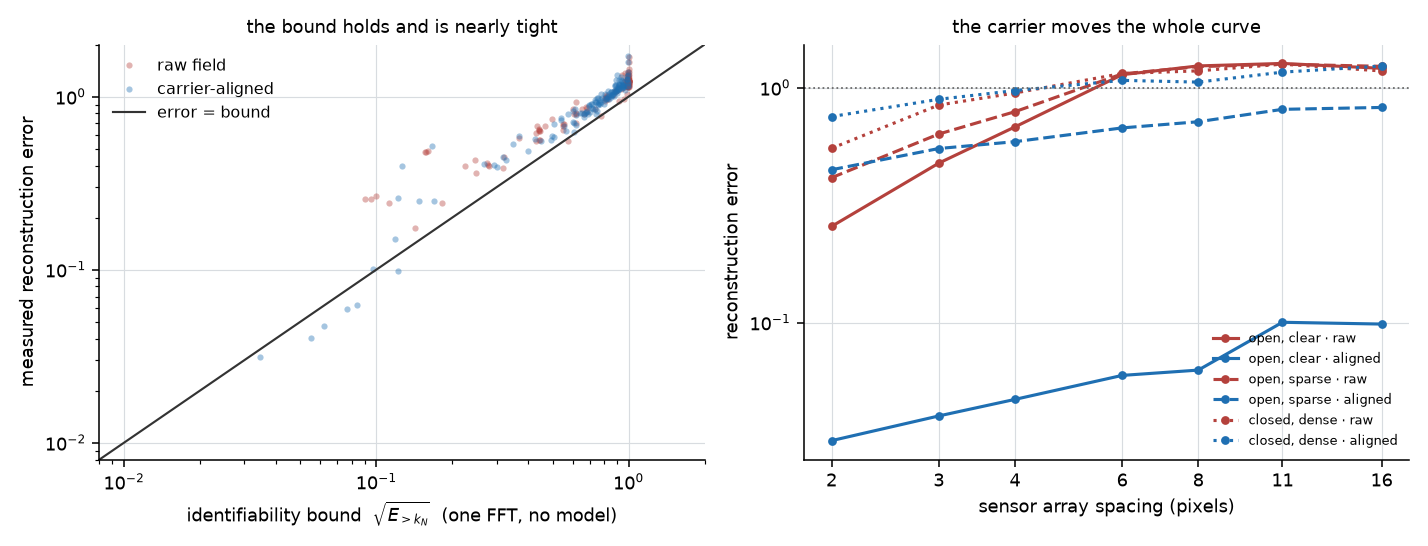
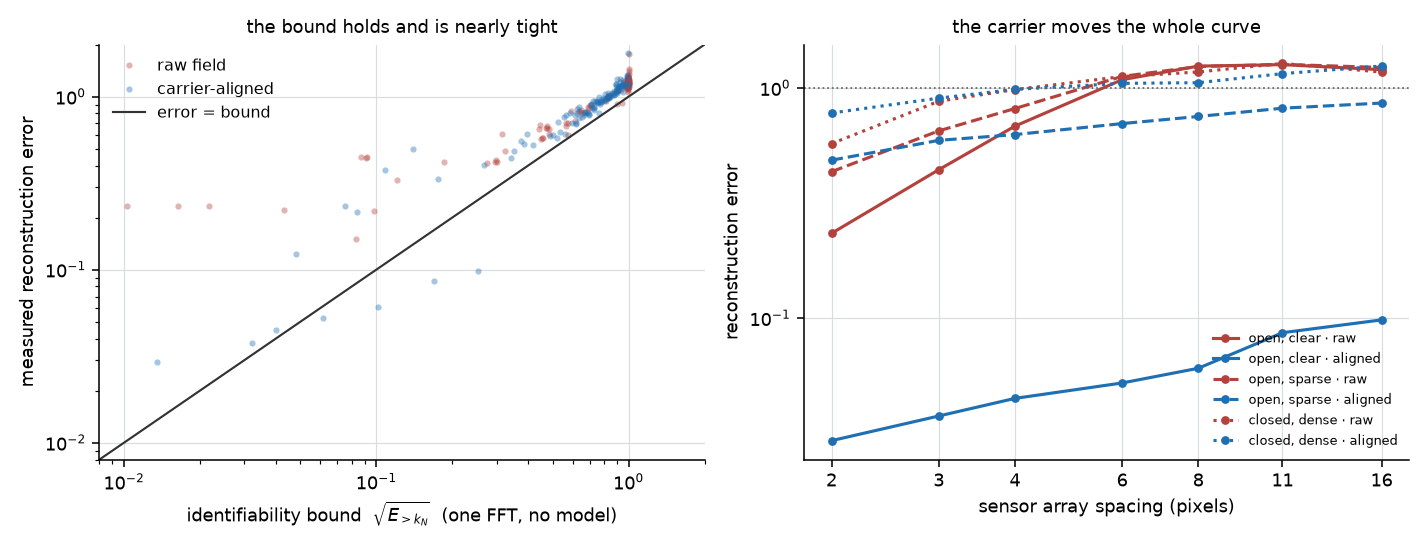
docs: add figures for the identifiability and learned-coordinate sections

diff --git a/experiments/make_figures.py b/experiments/make_figures.py
@@ -589,6 +589,96 @@ def figure_identifiability() -> None:
     plt.close(fig)
 
 
+def figure_not_capacity() -> None:
+    payload = load("exp22_no_estimator_beats_it.json")
+    if not payload:
+        return
+    rows = payload["rows"]
+    capacity = payload["summary"]["capacity_sweep"]
+    fig, axes = plt.subplots(1, 2, figsize=(9.8, 3.7))
+
+    order = sorted(capacity.items(), key=lambda kv: kv[1]["parameters"])
+    fourier = [(v["parameters"], v["mean_test"], v["mean_train"])
+               for k, v in order if k.startswith("fourier")]
+    params = [p for p, _, _ in fourier]
+    axes[0].semilogx(params, [t for _, t, _ in fourier], "o-", ms=6, lw=1.8,
+                     color=PALETTE["raw"], label="test error")
+    axes[0].semilogx(params, [max(tr, 1e-8) for _, _, tr in fourier], "s--", ms=5, lw=1.5,
+                     color=PALETTE["eikonal"], label="training error")
+    for key, label, color in (
+        ("linear", "linear interp. (0 parameters)", PALETTE["data_pick"]),
+        ("nearest", "nearest neighbour", "#9AA5B1"),
+    ):
+        value = float(np.mean([r[f"{key}_test"] for r in rows]))
+        axes[0].axhline(value, color=color, lw=1.5, ls=":", label=f"{label}: {value:.3f}")
+    axes[0].set_yscale("log")
+    axes[0].set_ylim(3e-8, 6.0)
+    axes[0].set_xlabel("network parameters")
+    axes[0].set_ylabel("complex NRMSE")
+    axes[0].set_title("128$\\times$ more capacity, 3% less error", fontsize=9)
+    axes[0].legend(fontsize=7.5, loc="center left", framealpha=0.9, frameon=True)
+    axes[0].annotate(
+        "training error is at machine precision throughout",
+        (params[0], 2e-7), fontsize=7.5, color=PALETTE["eikonal"], va="top",
+    )
+
+    labels, bounds, bests = [], [], []
+    for coordinate in ("raw", "aligned"):
+        subset = [r for r in rows if r["coordinate"] == coordinate]
+        labels.append(coordinate)
+        bounds.append(float(np.mean([r["bound"] for r in subset])))
+        bests.append(float(np.mean([r["best_test"] for r in subset])))
+    positions = np.arange(len(labels))
+    axes[1].bar(positions - 0.18, bounds, 0.34, color=PALETTE["straight"],
+                label="identifiability bound", linewidth=0)
+    axes[1].bar(positions + 0.18, bests, 0.34, color=PALETTE["eikonal"],
+                label="best of six estimators", linewidth=0)
+    axes[1].set_xticks(positions, ["raw field", "carrier-aligned"])
+    axes[1].set_ylabel("complex NRMSE")
+    axes[1].set_title("changing coordinates moves both", fontsize=9)
+    axes[1].legend(fontsize=8)
+    fig.tight_layout()
+    fig.savefig(FIGURES / "fig14_not_capacity.png")
+    plt.close(fig)
+
+
+def figure_learned_bound() -> None:
+    payload = load("exp24_learned_identifiability.json")
+    if not payload:
+        return
+    rows = payload["rows"]
+    regimes = ["open_clear", "open_sparse", "partial_clear", "closed_dense"]
+    entries = [
+        ("none", "no carrier", "#9AA5B1"),
+        ("eikonal_corrupted", "physics, corrupted", PALETTE["raw"]),
+        ("eikonal", "physics (eikonal)", PALETTE["straight"]),
+        ("learned_scratch", "learned, no physics", PALETTE["eikonal"]),
+        ("learned_repair", "corrupted + learning", PALETTE["data_pick"]),
+    ]
+    fig, axis = plt.subplots(figsize=(7.4, 3.7))
+    positions = np.arange(len(regimes))
+    width = 0.16
+    for index, (key, label, color) in enumerate(entries):
+        values = [
+            np.mean([
+                r["bound_s6"] for r in rows
+                if r["regime"] == regime and r["coordinate"] == key
+            ])
+            for regime in regimes
+        ]
+        axis.bar(positions + (index - 2) * width, values, width * 0.92,
+                 color=color, label=label, linewidth=0)
+    axis.set_xticks(positions, [r.replace("_", ",\n") for r in regimes], fontsize=8.5)
+    axis.set_ylabel("identifiability bound at array spacing 6")
+    axis.set_title(
+        "the missing information can be learned as well as supplied", fontsize=9
+    )
+    axis.legend(fontsize=7.5, ncol=2)
+    fig.tight_layout()
+    fig.savefig(FIGURES / "fig15_learned_bound.png")
+    plt.close(fig)
+
+
 def figure_fields() -> None:
     from wave_lr.fdtd import MediumSpec
     from wave_lr.fields import fdtd_case, load_well_acoustic
@@ -649,6 +739,8 @@ def main() -> None:
     figure_shifted_pod()
     figure_learned_representation()
     figure_identifiability()
+    figure_not_capacity()
+    figure_learned_bound()
     figure_fields()
     print(f"figures written to {FIGURES}")
 

diff --git a/experiments/_report_body.py b/experiments/_report_body.py
@@ -117,6 +117,10 @@ BODY = """
     跟着从 0.887 降到 0.604——<strong>没有增加任何一次测量</strong>。</p></div>
   <p>界在 48 组里被打破 4 次（8.3%），线性插值平均是界的 1.48 倍——即界不仅成立，而且接近可达。
   这就是"可辨识性，而不是容量"这句话的全部经验内容。</p>
+  <figure><img src="{{FIG14}}" alt="左：测试与训练误差随参数量；右：两种坐标系下的界与最好估计器">
+    <figcaption><b>图 1.</b> 左：训练误差恒在机器精度，测试误差跨 128 倍容量几乎不动，
+    零参数的线性插值反而最好。右：换坐标系同时降低界与可达误差。</figcaption>
+  </figure>
 </section>
 
 <section id="c03">
@@ -158,6 +162,10 @@ BODY = """
     <p>学习把界降到与物理相同甚至更低，但实测误差仍略高（0.687 vs 0.634）。
     即学出来的坐标<em>释放</em>了可辨识性，而线性插值没有把它全部兑现——
     这个差距属于估计器，不属于表征。</p></div>
+  <figure><img src="{{FIG15}}" alt="四个区间下五种坐标系的可辨识性界柱状图">
+    <figcaption><b>图 2.</b> 灰（无载波）与红（被破坏的物理）居高不下；
+    橙（物理）、蓝（纯学习）、绿（破坏后再学习）几乎重合。</figcaption>
+  </figure>
 </section>
 
 <section id="c1">

diff --git a/experiments/build_report_artifact.py b/experiments/build_report_artifact.py
@@ -231,6 +231,8 @@ FIGURE_SLOTS = {
     "{{FIG11}}": "fig11_shifted_pod.png",
     "{{FIG12}}": "fig12_learned_representation.png",
     "{{FIG13}}": "fig13_identifiability.png",
+    "{{FIG14}}": "fig14_not_capacity.png",
+    "{{FIG15}}": "fig15_learned_bound.png",
 }
 
 from _report_body import BODY

diff --git a/docs/REPORT_ZH.md b/docs/REPORT_ZH.md
@@ -106,6 +106,8 @@
 
 这就是"可辨识性，而不是容量"这句话的全部经验内容。
 
+图：`reports/figures/fig14_not_capacity.png`
+
 ---
 
 ## 0.3 缺的信息可以学回来：把界本身当成损失函数
@@ -153,7 +155,7 @@ min_θ   能量( |k| > 1/(2m) )  /  总能量      在坐标 exp(+i φ_θ) 下
 （0.687 vs 0.634）。即学出来的坐标释放了可辨识性，而线性插值没有把它全部兑现——
 这个差距属于估计器，不属于表征。
 
-`exp24`
+图：`reports/figures/fig15_learned_bound.png`（`exp24`）
 
 ---
 
